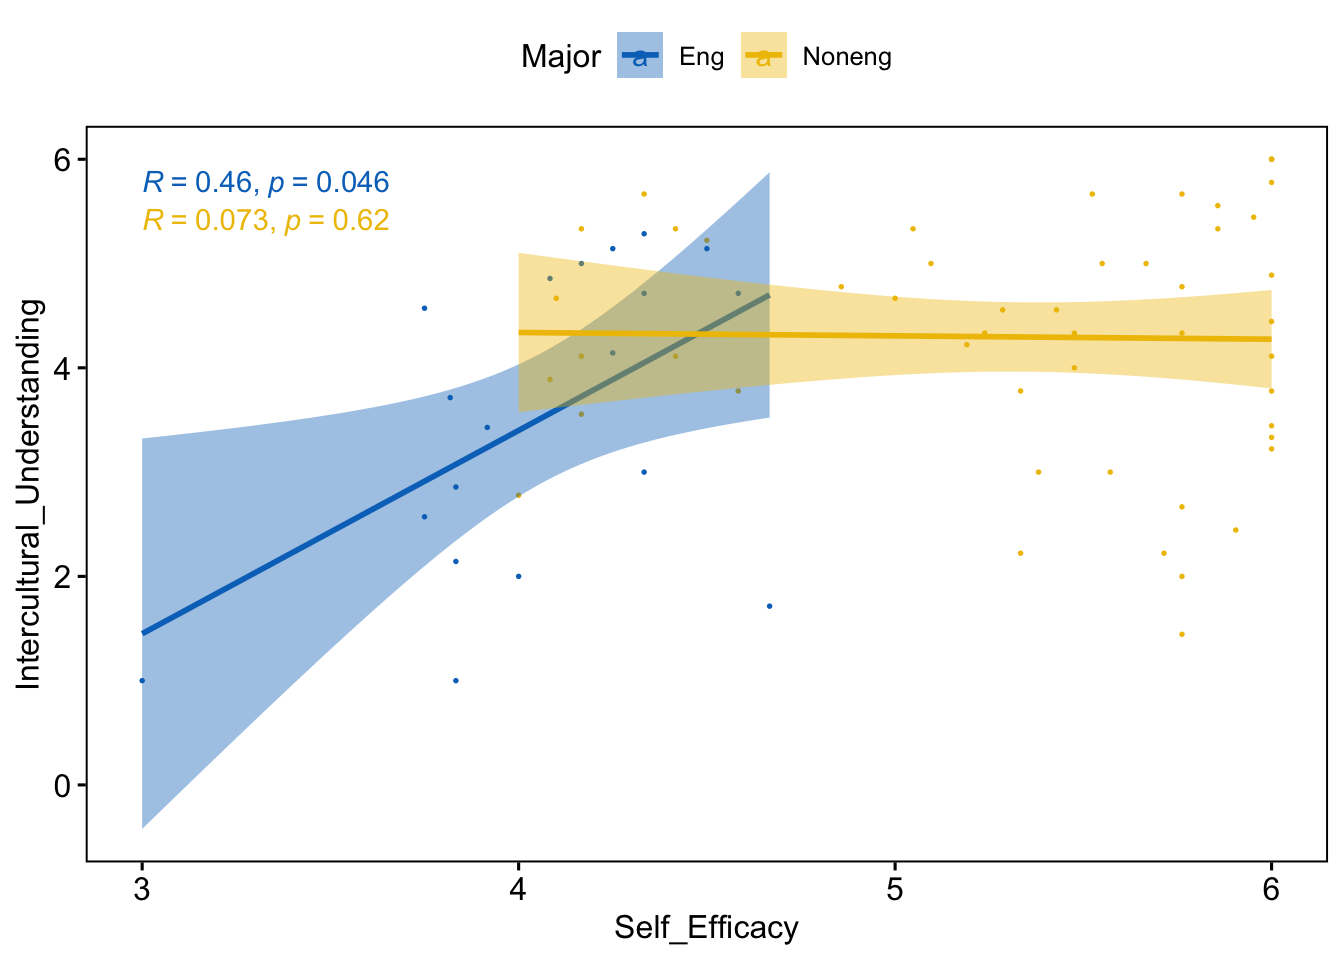
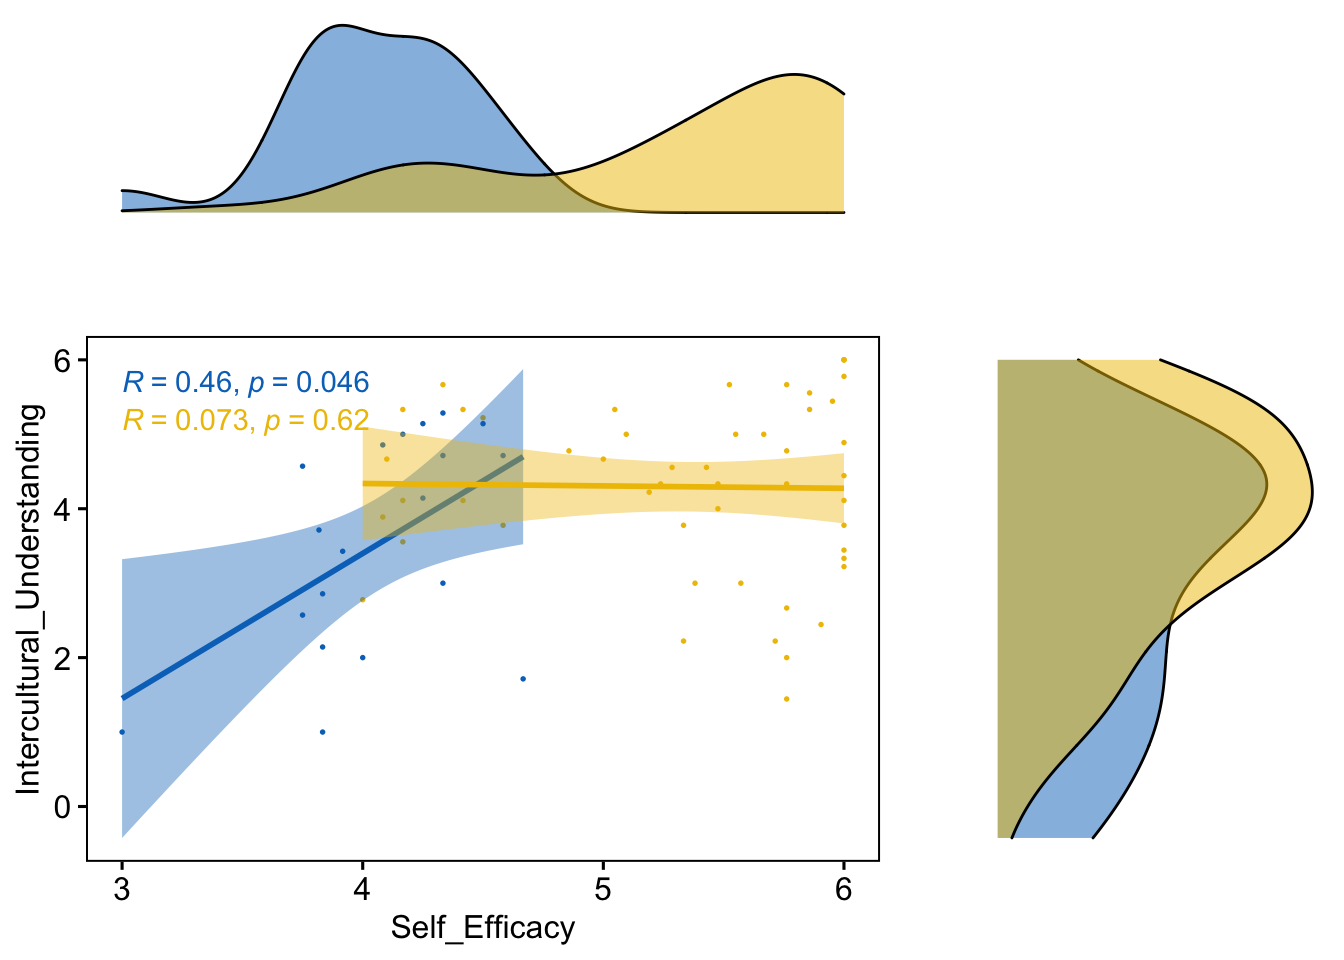
[nested]

diff --git a/content/post/Nested-data/2020-12-10-analyzing-nested-data-comparing-multiple-approaches.en.html b/content/post/Nested-data/2020-12-10-analyzing-nested-data-comparing-multiple-approaches.en.html
@@ -54,8 +54,8 @@ SA &lt;- ggscatter(Studyabroad, x = &quot;Self_Efficacy&quot;, y = &quot;Intercu
    cor.coef = TRUE ,rug = TRUE)+
 border()                                         
 # Marginal density plot of x (top panel) and y (right panel)
-xplot &lt;- ggdensity(Studyabroad, &quot;Self_Efficacy&quot;, fill = &quot;lightgray&quot;)
-yplot &lt;- ggdensity(Studyabroad, &quot;Intercultural_Understanding&quot;, fill = &quot;lightgray&quot;)+
+xplot &lt;- ggdensity(Studyabroad, &quot;Self_Efficacy&quot;, fill = &quot;lightgrey&quot;)
+yplot &lt;- ggdensity(Studyabroad, &quot;Intercultural_Understanding&quot;, fill = &quot;lightgrey&quot;)+
 rotate()
 # Cleaning the plots
 SA &lt;- SA + rremove(&quot;legend&quot;)
@@ -96,10 +96,23 @@ summary(Lm0)</code></pre>
 <h3><strong>2.3. Alternative Analytic Methods for the Nested Data</strong></h3>
 <p>However, the data is stratified with other grouping variables. The data ‘Studyabroad’ has a ‘Major’ variable, indicating that each student belongs to a specific major program. The students’ intercultural understanding explained by self-efficacy may be influenced by their majors.</p>
 <p>We can plot the regression line in the above scatter plot, but I will draw two different lines for each group this time. The scatter plot below shows that students in English and non-English majors have very different patterns of association. In general, the students’ intercultural understanding in English majors is related to their self-efficacy level, while the non-English major students showed no relationship between them.</p>
-<pre class="r"><code>ggscatter(Studyabroad, x = &quot;Self_Efficacy&quot;, y = &quot;Intercultural_Understanding&quot;, size = 0.3,
+<pre class="r"><code>SA&lt;-ggscatter(Studyabroad, x = &quot;Self_Efficacy&quot;, y = &quot;Intercultural_Understanding&quot;, size = 0.3,
           combine = TRUE, color = &quot;Major&quot;, palette = &quot;jco&quot;,
           add = &quot;reg.line&quot;, conf.int = TRUE) +
-  stat_cor(aes(color = Major), method = &quot;spearman&quot;)</code></pre>
+  stat_cor(aes(color = Major), method = &quot;spearman&quot;)
+# Marginal density plot of x (top panel) and y (right panel)
+xplot &lt;- ggdensity(Studyabroad, &quot;Self_Efficacy&quot;, fill = &quot;Major&quot;,
+                   palette = &quot;jco&quot;)
+yplot &lt;- ggdensity(Studyabroad, &quot;Intercultural_Understanding&quot;, fill = &quot;Major&quot;,palette = &quot;jco&quot;)+
+rotate()
+# Cleaning the plots
+SA &lt;- SA + rremove(&quot;legend&quot;)
+yplot &lt;- yplot + clean_theme() + rremove(&quot;legend&quot;) 
+xplot &lt;- xplot + clean_theme() + rremove(&quot;legend&quot;)
+
+library(cowplot)
+plot_grid(xplot, NULL, SA, yplot, ncol = 2, align = &quot;hv&quot;, 
+      rel_widths = c(2, 1), rel_heights = c(1, 2))</code></pre>
 <p><img src="/post/Nested-data/2020-12-10-analyzing-nested-data-comparing-multiple-approaches.en_files/figure-html/unnamed-chunk-5-1.png" width="672" /></p>
 <p>The biggest problem of not considering the nested structure of the data is underestimating each parameter estimation’s standard error. This underestimation is fed into a more frequent rejection of the null hypothesis for the coefficient estimation. We have already seen that the simple linear regression model rejected the null hypothesis above.</p>
 <div id="solution1.-complex-linear-regression-model-with-grouping-dummy-variables" class="section level4">
